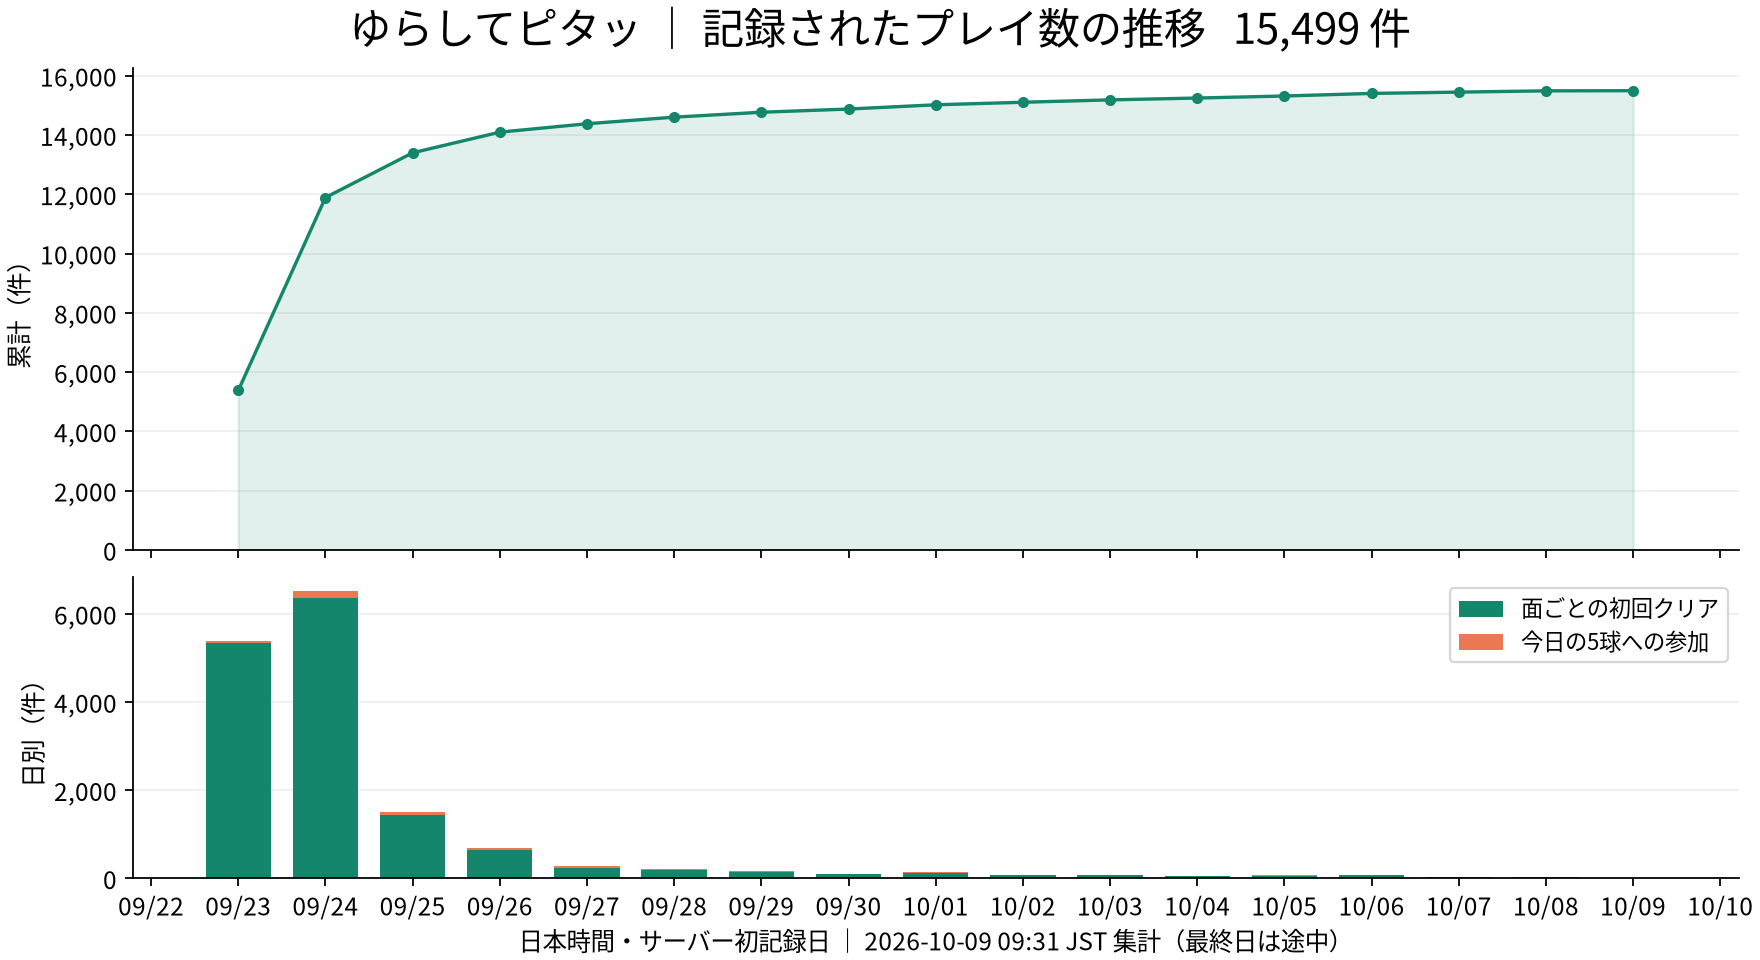
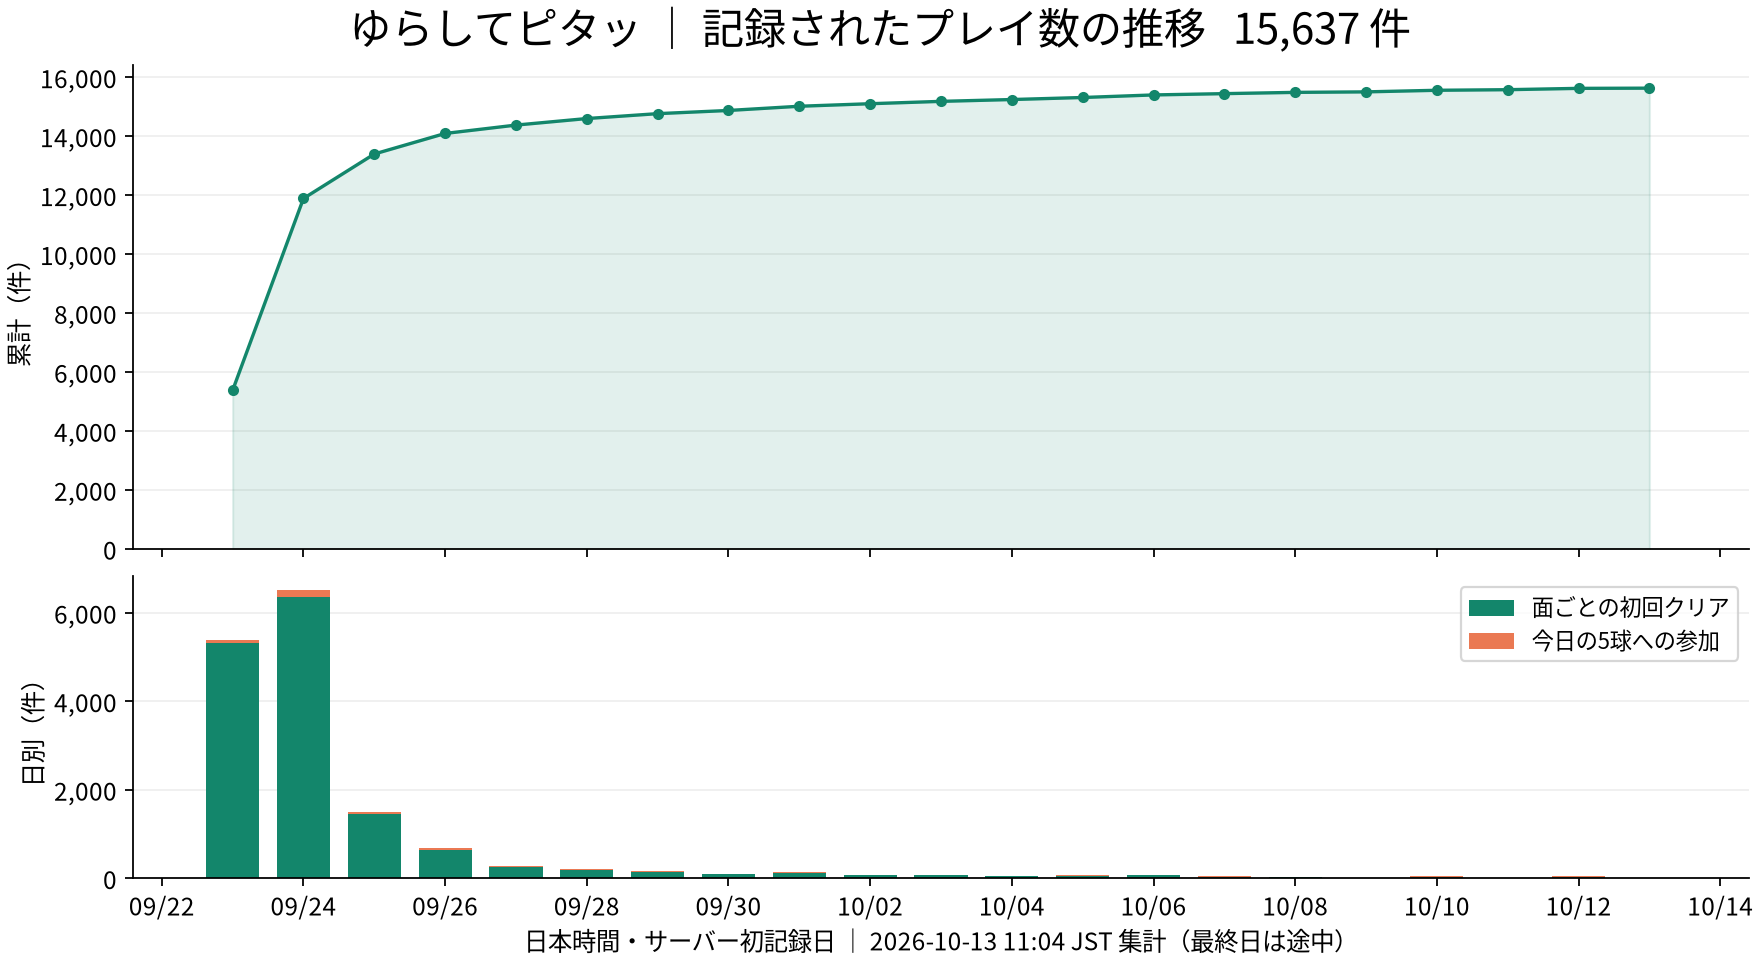
docs: refresh game usage statistics for October 13

diff --git a/README.md b/README.md
@@ -20,14 +20,14 @@
 <!-- game-stats:start -->
 ## ゲームの利用状況
 
-**累計利用者数：5,230 ブラウザ**（2026-10-09 09:31 JST 時点）。本番 D1 の記録から集計したスナップショット。
+**累計利用者数：5,256 ブラウザ**（2026-10-13 11:04 JST 時点）。本番 D1 の記録から集計したスナップショット。
 
 | 指標 | 累計 |
 |---|---:|
-| 利用者数（記録のあるブラウザ数） | 5,230 |
-| 記録されたプレイ数 | 15,499 件 |
-| 内訳：面ごとの初回クリア | 14,942 件 |
-| 内訳：今日の5球への参加 | 557 件 |
+| 利用者数（記録のあるブラウザ数） | 5,256 |
+| 記録されたプレイ数 | 15,637 件 |
+| 内訳：面ごとの初回クリア | 15,034 件 |
+| 内訳：今日の5球への参加 | 603 件 |
 
 ![利用者数グラフ：累計と日別の新規ブラウザ数](docs/stats/users.png)
 
